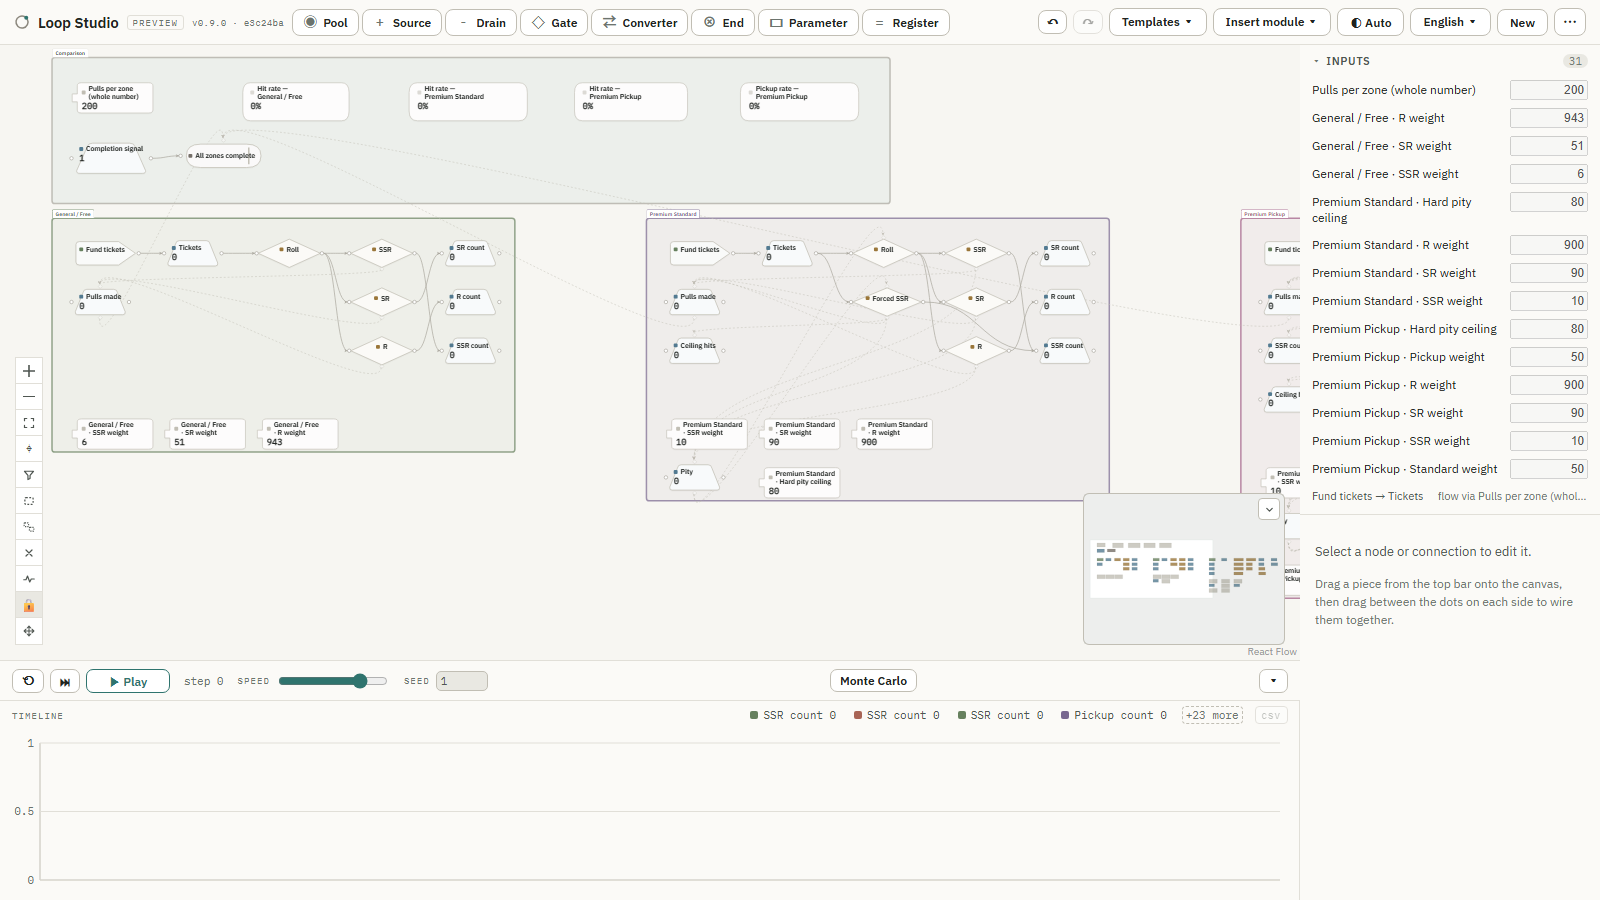
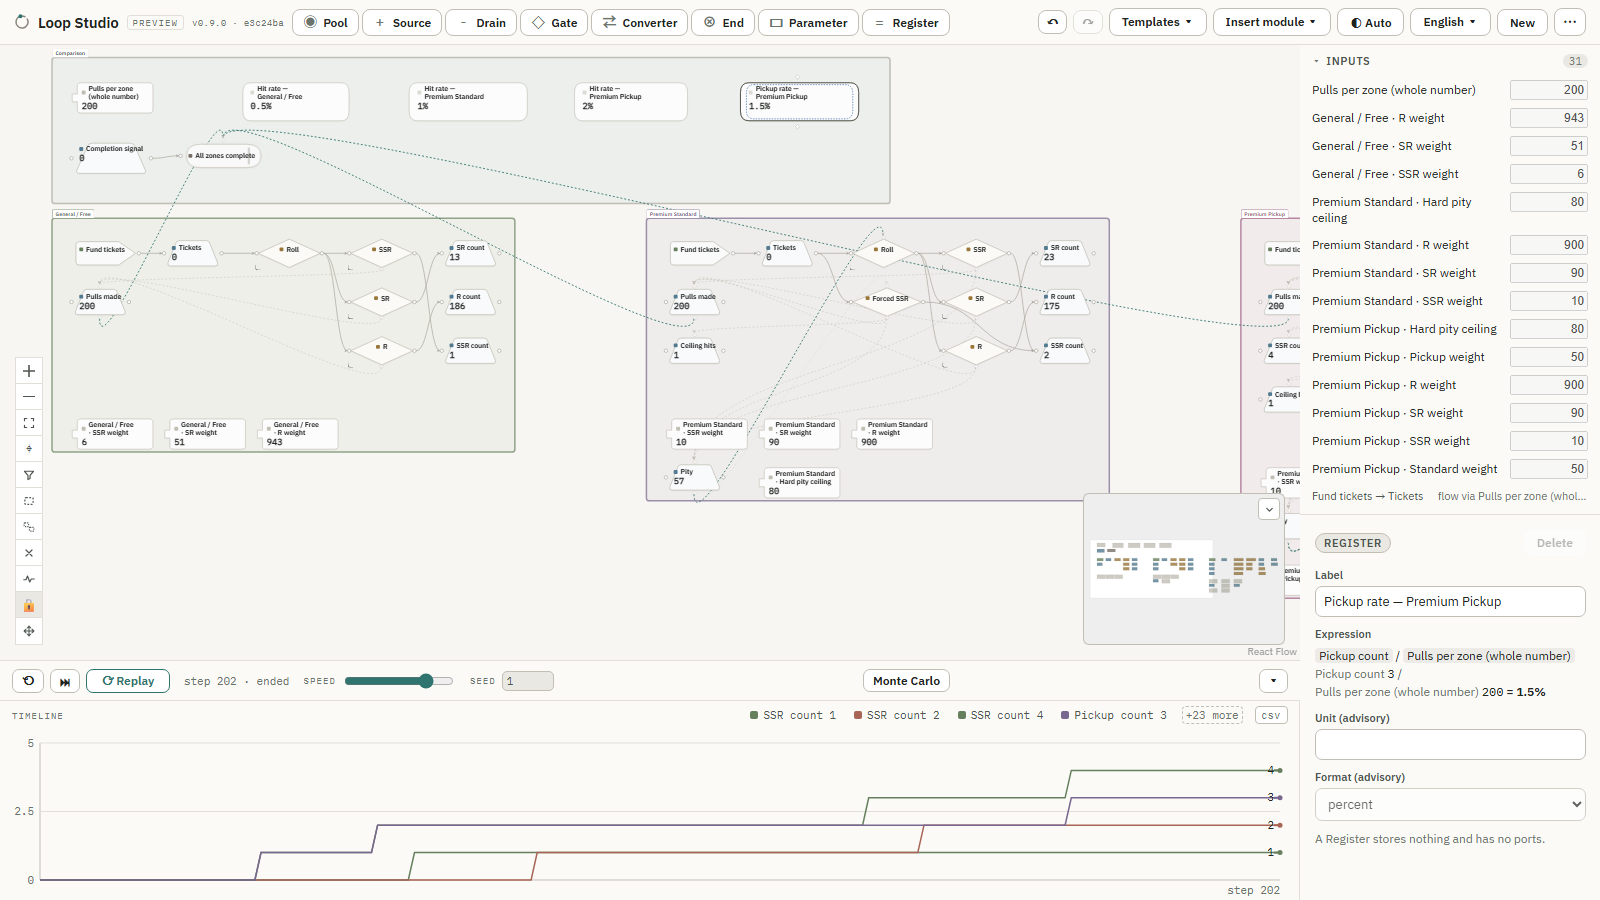
docs(readme): reshoot gacha screenshots after a completed run, not step 0
Review feedback on PR #200: both screenshots were captured at step 0, so
every comparison card, Register, and Timeline line read zero — the Template
never demonstrated an actual result. Reshot both from a fresh Playwright
page, running the single-run sim to the global End (step 202, the
Template's own default seed) before capturing, and selecting a real node so
the Inspector shows live content instead of its empty-selection placeholder.
Updated the alt text and captions to describe what's actually on screen now
(real hit-rate/pickup-rate percentages, a fired ceiling hit, a 3-to-1
pickup/standard split, real Timeline curves).

diff --git a/README.md b/README.md
@@ -141,22 +141,24 @@ three banner rule sets side by side under the same 200-pull budget:
 tunable **hard-pity ceiling** that forces an SSR by a fixed pull count, 80 by
 default), and **Premium Pickup** (the same hard-pity ceiling, plus a
 **pickup guarantee** on top — a missed pickup means the *next* SSR, whenever
-it lands, resolves as pickup rather than standard). Five comparison cards
-read the headline hit rate / pickup rate for all three zones at a glance;
-Step it or Monte-Carlo it to see how the pity ceiling and the guarantee
-reshape the outcome distribution.
+it lands, resolves as pickup rather than standard). Run all 200 pulls per
+zone (the global End auto-stops the run once every zone finishes) and the
+five comparison cards read the real headline hit rate / pickup rate for all
+three zones at a glance; Monte-Carlo it to see the outcome distribution
+across many runs instead of one.
 
-![The gacha Template's initial view: five comparison cards (pulls per zone, hit rate for each of the three zones, pickup rate for Premium Pickup) above the fully legible General/Free zone — ticket funding, a probabilistic roll gate, and SSR/SR/R counters — with Premium Standard's own roll structure visible at the right edge](docs/assets/gacha-overview.png)
+![The gacha Template after a completed 200-pull-per-zone run (step 202, ended): five comparison cards reading real hit-rate / pickup-rate percentages above the fully legible General/Free zone — ticket funding, a probabilistic roll gate, and non-zero SSR/SR/R counters — with Premium Standard's own roll structure visible at the right edge, a Timeline with real per-zone SSR/pickup curves below, and the selected "Pickup rate — Premium Pickup" Register's expression read-back open in the right column](docs/assets/gacha-overview.png)
 
-*Premium Pickup zone, framed on its own* — the hard-pity counter (`Pity`,
-ceiling 80) forces the next roll's SSR once it reaches the threshold; whether
-that forced SSR (or any ordinary probabilistic one) lands as pickup or
-standard depends on the guarantee flag, `Pickup owed`: while it is `0` an SSR
-splits by weight between `Pickup hit` and `Standard hit`, and a miss sets it
-to `1`, which routes the very next SSR straight to `Pickup hit` and resets the
-flag.
+*Premium Pickup zone, framed on its own, same completed run* — the hard-pity
+counter (`Pity`) forces the next roll's SSR once it reaches the ceiling
+(`Ceiling hits` reads `1` — it fired once in this run); whether a forced SSR
+(or any ordinary probabilistic one) lands as pickup or standard depends on
+the guarantee flag, `Pickup owed`: while it is `0` an SSR splits by weight
+between `Pickup hit` and `Standard hit`, and a miss sets it to `1`, which
+routes the very next SSR straight to `Pickup hit` and resets the flag —
+ending this run at `Pickup count 3` vs. `Standard count 1`.
 
-![The Premium Pickup zone on its own: four roll-gate variants (normal / forced × not-owed / owed), the hard-pity counter and ceiling, the Pickup-owed guarantee flag, and the Pickup hit / Standard hit split feeding the pickup-count and standard-count Registers](docs/assets/gacha-pickup-guarantee.png)
+![The Premium Pickup zone on its own after the same completed run: four roll-gate variants (normal / forced × not-owed / owed), the hard-pity counter reading 33 against its ceiling of 80, one real ceiling hit, the Pickup-owed guarantee flag, and a real 3-to-1 Pickup hit / Standard hit split — with the selected "Ceiling hits" Pool's Inspector open in the right column](docs/assets/gacha-pickup-guarantee.png)
 
 ## Why
 
